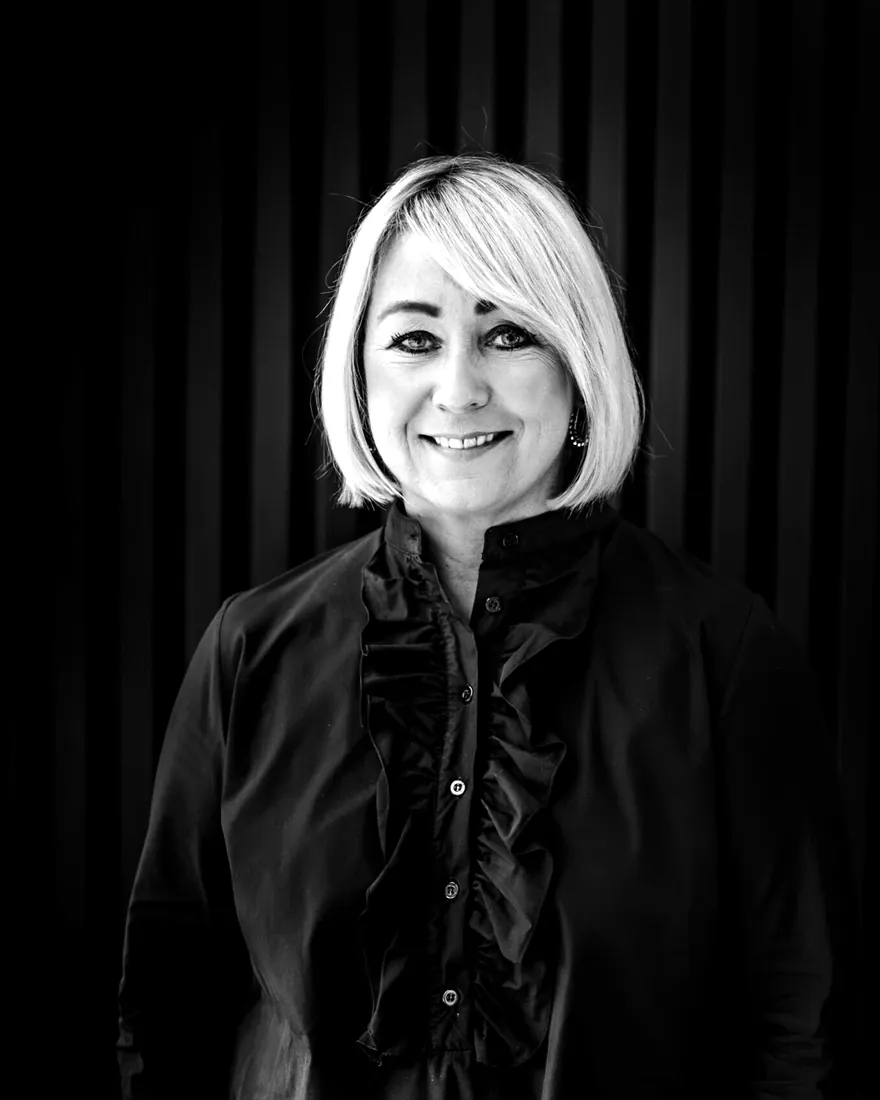
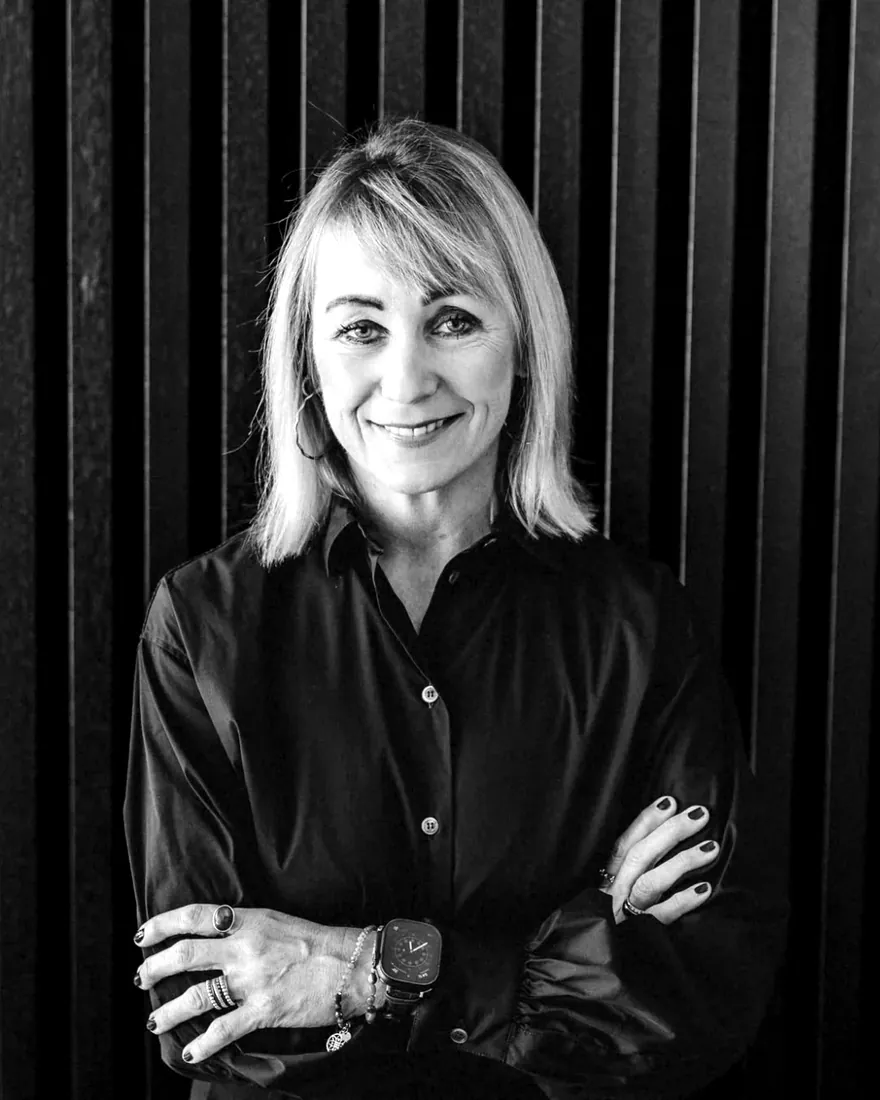
Neues Teamfoto von Anja Engelshove

diff --git a/index.html b/index.html
@@ -18,7 +18,7 @@
 <link rel="stylesheet" href="css/style.css?v=20261121a">
 <style>:root{--leiste:0px}</style>
 <link rel="stylesheet" href="css/hero.css?v=20261120t">
-<script>window.STAND="20261122-225530";fetch("stand.txt?"+Date.now(),{cache:"no-store"}).then(function(r){return r.text()}).then(function(t){t=t.trim();if(t&&t!==window.STAND&&!sessionStorage.getItem("stand-"+t)){sessionStorage.setItem("stand-"+t,"1");location.reload()}}).catch(function(){})</script>
+<script>window.STAND="20261123-144653";fetch("stand.txt?"+Date.now(),{cache:"no-store"}).then(function(r){return r.text()}).then(function(t){t=t.trim();if(t&&t!==window.STAND&&!sessionStorage.getItem("stand-"+t)){sessionStorage.setItem("stand-"+t,"1");location.reload()}}).catch(function(){})</script>
 <script>if(!(window.matchMedia&&matchMedia("(prefers-reduced-motion: reduce)").matches))document.documentElement.classList.add("bewegt")</script>
 </head>
 <body class="start">
